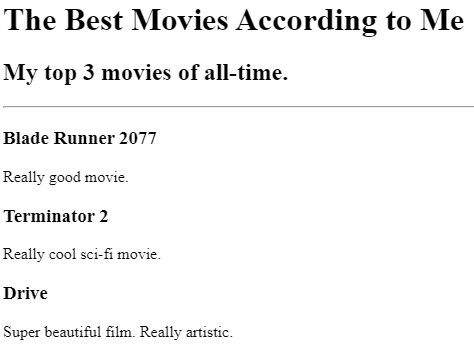
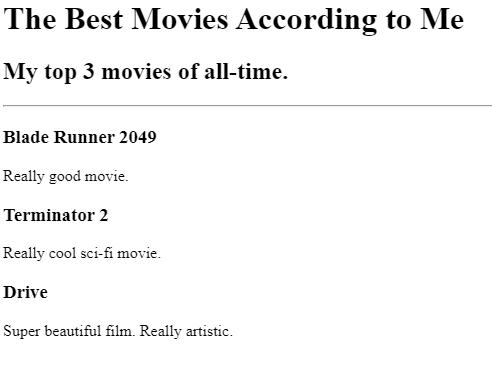
Add files via upload

diff --git a/public/movie-ranking.html b/public/movie-ranking.html
@@ -1,7 +1,7 @@
 <h1>The Best Movies According to Me</h1>
 <h2>My top 3 movies of all-time.</h2>
 <hr />
-<h3>Blade Runner 2077</h3>
+<h3>Blade Runner 2049</h3>
 <p>Really good movie.</p>
 <h3>Terminator 2</h3>
 <p>Really cool sci-fi movie.</p>
